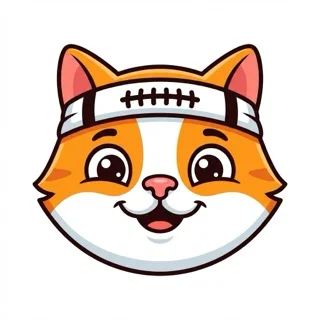
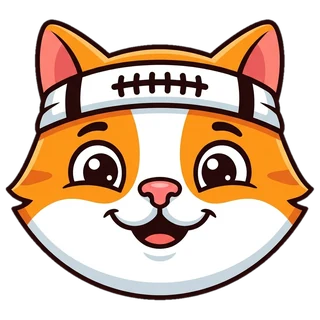
Hacer interactiva a la mascota
- Componente Mascot con estados (reposo, contenta, celebrando, triste y
  pensando), animación breve por estado, globo de diálogo flotante con frases
  en chileno y reacción al tocarla. Respeta reducir movimiento.
- Reacciona en la barra de respuesta (celebra las difíciles y anima en los
  errores), en el saludo del dashboard, al cargar la pregunta, sin vidas y al
  completar el banco.
- Imágenes con fondo transparente, recortadas desde el borde para conservar
  los blancos de la cara.
- La barra de respuesta queda alineada con el menú lateral.

diff --git a/src/components/mascot/Mascot.tsx b/src/components/mascot/Mascot.tsx
@@ -1,0 +1,141 @@
+"use client"
+
+import Image from "next/image"
+import { useEffect, useRef, useState } from "react"
+import { AnimatePresence, motion, useAnimationControls, useReducedMotion } from "framer-motion"
+import { cn } from "@/lib/utils"
+
+export type MascotMood = "idle" | "happy" | "celebrate" | "sad" | "thinking"
+
+/** Frases por estado de ánimo (español de Chile, tono cercano). */
+export const MASCOT_LINES: Record<MascotMood, string[]> = {
+    idle: ["¡Vamos que se puede!", "¿Una pregunta más?", "Hoy sumamos puntos 💪", "La constancia gana la PAES"],
+    happy: ["¡Bien ahí!", "¡Eso!", "¡Bacán!", "¡Lo tienes!", "¡Sigue así!"],
+    celebrate: ["¡Imparable! 🔥", "¡Racha encendida!", "¡Nivel PAES!", "¡Qué máquina!"],
+    sad: ["¡Casi! Mira la explicación", "Del error se aprende", "La próxima sale 💪", "Tranqui, es parte del proceso"],
+    thinking: ["Buscando tu próximo desafío…", "Elegí una buena para ti…", "Preparando la siguiente…"],
+}
+
+export function pickLine(mood: MascotMood, seed?: number) {
+    const lines = MASCOT_LINES[mood]
+    const i = seed !== undefined ? Math.abs(seed) % lines.length : Math.floor(Math.random() * lines.length)
+    return lines[i]
+}
+
+type MascotProps = {
+    mood?: MascotMood
+    /** Texto del globo; `false` para no mostrar globo */
+    message?: string | false
+    size?: number
+    /** Lado del globo respecto de la mascota */
+    bubbleSide?: "right" | "top"
+    /** Al tocarla salta y dice una frase */
+    interactive?: boolean
+    className?: string
+    priority?: boolean
+}
+
+export function Mascot({ mood = "idle", message, size = 96, bubbleSide = "right", interactive = true, className, priority }: MascotProps) {
+    const reduce = useReducedMotion()
+    const controls = useAnimationControls()
+    const [tapLine, setTapLine] = useState<string | null>(null)
+    const tapTimer = useRef<number | undefined>(undefined)
+
+    // Animación al cambiar de ánimo (un gesto corto, no un bucle que distraiga)
+    useEffect(() => {
+        if (reduce) return
+        const anims: Record<MascotMood, Parameters<typeof controls.start>[0]> = {
+            idle: { y: [0, -4, 0], rotate: 0, transition: { duration: 0.6, ease: "easeOut" } },
+            happy: { y: [0, -14, 0, -5, 0], rotate: [0, -4, 4, 0], transition: { duration: 0.7, ease: "easeOut" } },
+            celebrate: { y: [0, -22, 0, -10, 0], rotate: [0, -10, 10, -6, 0], scale: [1, 1.12, 1, 1.05, 1], transition: { duration: 0.9, ease: "easeOut" } },
+            sad: { y: [0, 3, 3, 0], rotate: [0, -6, 6, -4, 0], transition: { duration: 0.6, ease: "easeInOut" } },
+            thinking: { rotate: [0, -8, -8, 0], transition: { duration: 1.2, ease: "easeInOut", repeat: Infinity, repeatDelay: 0.6 } },
+        }
+        controls.start(anims[mood])
+    }, [mood, reduce, controls])
+
+    useEffect(() => () => window.clearTimeout(tapTimer.current), [])
+
+    const onTap = () => {
+        if (!interactive) return
+        setTapLine(pickLine(mood === "sad" ? "sad" : mood === "thinking" ? "thinking" : "happy"))
+        if (!reduce) controls.start({ y: [0, -18, 0], rotate: [0, 8, -8, 0], transition: { duration: 0.55, ease: "easeOut" } })
+        window.clearTimeout(tapTimer.current)
+        tapTimer.current = window.setTimeout(() => setTapLine(null), 2200)
+    }
+
+    const text = tapLine ?? (message === false ? null : message ?? null)
+    const src = mood === "sad" ? "/mascot/sad.webp" : "/mascot/happy.webp"
+
+    return (
+        <div className={cn("relative inline-flex shrink-0 items-center justify-center", className)}>
+            <motion.button
+                type="button"
+                onClick={onTap}
+                animate={controls}
+                whileHover={interactive && !reduce ? { scale: 1.05 } : undefined}
+                whileTap={interactive && !reduce ? { scale: 0.94 } : undefined}
+                tabIndex={interactive ? 0 : -1}
+                aria-label={interactive ? "Mascota de PAES Lab: tócala para que te anime" : undefined}
+                aria-hidden={interactive ? undefined : true}
+                className={cn("relative rounded-full focus-visible:outline-2 focus-visible:outline-offset-4 focus-visible:outline-blue-600", interactive ? "cursor-pointer" : "cursor-default")}
+                style={{ width: size, height: size }}
+            >
+                <Image src={src} alt="" width={size} height={size} priority={priority} draggable={false} className="h-full w-full select-none" />
+                {mood === "celebrate" && !reduce && <Sparkles />}
+            </motion.button>
+
+            <AnimatePresence mode="wait">
+                {text && (
+                    <motion.p
+                        key={text}
+                        role="status"
+                        initial={reduce ? false : { opacity: 0, scale: 0.85, y: bubbleSide === "top" ? 6 : 0, x: bubbleSide === "right" ? -6 : 0 }}
+                        animate={{ opacity: 1, scale: 1, x: 0, y: 0 }}
+                        exit={reduce ? undefined : { opacity: 0, scale: 0.9 }}
+                        transition={{ type: "spring", stiffness: 420, damping: 26 }}
+                        className={cn(
+                            // Flotante: no empuja el diseño que rodea a la mascota
+                            "absolute z-10 w-max max-w-[14rem] rounded-2xl border-2 border-slate-200 bg-white px-3 py-2 text-sm font-bold leading-snug text-slate-800 shadow-[0_6px_16px_-6px_rgba(15,23,42,0.25)]",
+                            bubbleSide === "right" ? "left-full top-1/2 ml-3 -translate-y-1/2 origin-left" : "bottom-full left-1/2 mb-3 -translate-x-1/2 origin-bottom"
+                        )}
+                    >
+                        {text}
+                        {/* Pico del globo */}
+                        <span
+                            aria-hidden
+                            className={cn(
+                                "absolute h-3 w-3 rotate-45 border-slate-200 bg-white",
+                                bubbleSide === "right" ? "-left-[7px] top-1/2 -translate-y-1/2 border-b-2 border-l-2" : "-bottom-[7px] left-1/2 -translate-x-1/2 border-b-2 border-r-2"
+                            )}
+                        />
+                    </motion.p>
+                )}
+            </AnimatePresence>
+        </div>
+    )
+}
+
+/** Destellos breves alrededor de la mascota al celebrar. */
+function Sparkles() {
+    const dots = [
+        { x: -38, y: -30, c: "bg-amber-400" },
+        { x: 40, y: -26, c: "bg-blue-500" },
+        { x: -44, y: 18, c: "bg-rose-400" },
+        { x: 46, y: 22, c: "bg-emerald-400" },
+        { x: 0, y: -46, c: "bg-violet-400" },
+    ]
+    return (
+        <span aria-hidden className="pointer-events-none absolute inset-0">
+            {dots.map((d, i) => (
+                <motion.span
+                    key={i}
+                    className={cn("absolute left-1/2 top-1/2 h-2 w-2 rounded-full", d.c)}
+                    initial={{ x: 0, y: 0, opacity: 0, scale: 0.4 }}
+                    animate={{ x: d.x, y: d.y, opacity: [0, 1, 0], scale: [0.4, 1.1, 0.6] }}
+                    transition={{ duration: 0.8, delay: 0.05 * i, ease: "easeOut" }}
+                />
+            ))}
+        </span>
+    )
+}
